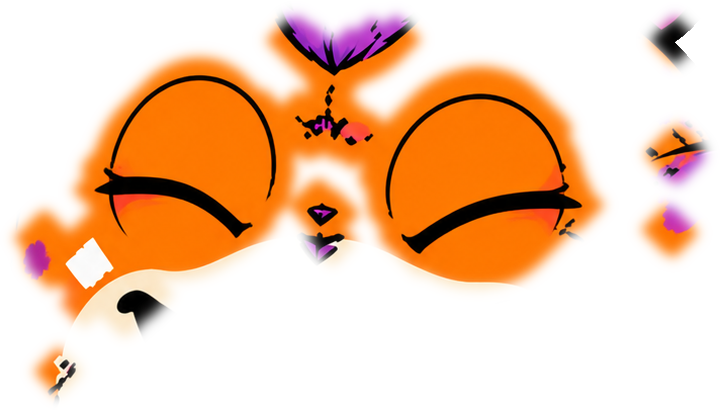
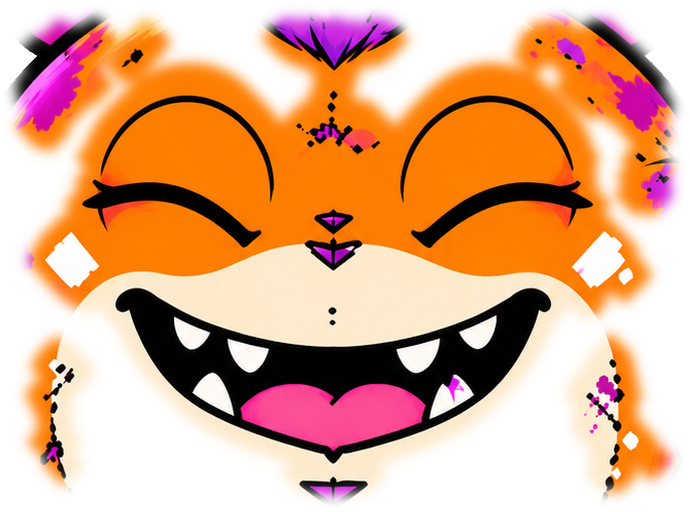
BUNK: new closed-eyes face (aligned to the new arms-down pose); faces only on the arms-down pose
Claude-Session: https://claude.ai/code/session_01MXithgTc5umkveoyZShZHQ

diff --git a/src/render/bunkView.ts b/src/render/bunkView.ts
@@ -256,7 +256,15 @@ export class BunkView extends Phaser.GameObjects.Container {
     if (still) face = brain.face();
     // 作り直し中で使わない物(表情の顔・腕を下ろした姿)
     if (m.disabled?.includes('faces')) face = null;
-    const pose: BunkPoseName = m.disabled?.includes('down') && brain.pose === 'down' ? 'guard' : brain.pose;
+    // 絵がまだない表情は出さない
+    if (face && !m.faces.names.includes(face)) face = null;
+    let pose: BunkPoseName = m.disabled?.includes('down') && brain.pose === 'down' ? 'guard' : brain.pose;
+    // 新しい絵の表情の顔は、腕を下ろした姿(正面)に合わせて作っている(2026-10-21〜)。
+    // 構えた姿(少し斜め)のときは、まばたきはしない。反応の顔(怒る・喜ぶなど)は、腕を下ろした姿にして出す
+    if (face && m.facesOnlyDown && pose === 'guard') {
+      if (face === brain.face()) pose = 'down';
+      else face = null;
+    }
 
     const br = still ? { scaleX: 1, scaleY: 1 } : sleeping ? breathPose(m, t, b.sleepBreathScale, b.sleepBreathPeriod) : breathPose(m, t);
     const hopPhase = (t * Math.PI) / b.hopPeriod;

diff --git a/src/core/bunkPose.ts b/src/core/bunkPose.ts
@@ -58,6 +58,8 @@ export interface BunkMotion {
    * 'down': 腕を下ろした姿(かわりに構えた姿を出す) / 'faces': 表情の顔(まばたき・怒る・喜ぶの顔を出さない)
    */
   disabled?: ('down' | 'faces')[];
+  /** 表情の顔は腕を下ろした姿にだけ重ねる(新しい絵は、腕を下ろした姿に合わせて作っているため) */
+  facesOnlyDown?: boolean;
 }
 
 export interface BreathPose {

diff --git a/tools/build_bunk_faces_v2.py b/tools/build_bunk_faces_v2.py
@@ -1,0 +1,95 @@
+"""BUNK の表情の顔を作る(新しい絵 2026-10-21〜)。絵は描き直さない(背景を消して、位置と大きさを合わせるだけ)。
+
+使い方:
+  python3 tools/build_bunk_faces_v2.py design/bunk/reference/pose_down/faces_v2.json
+
+表情の絵は「腕を下ろしたふつう」と同じポーズで作ってもらうが、少しだけ大きさや位置がちがう。そこで:
+1. 背景(市松模様)だけを消す(tools/remove_background.py と同じ処理)
+2. 黒い線が いちばん重なるように、表情の絵を少しだけ拡大縮小・移動して、ふつうの絵に合わせる
+3. ふつうの絵とちがう所(目・口など)だけを、顔の範囲(box)の中から ふちをぼかして切り出す
+4. ゲームの画面(1278x1230)の位置に直して、public/assets/bunk/faces/<表情>.png と faces.json に書き出す
+"""
+import importlib.util
+import json
+import os
+import sys
+
+import cv2
+import numpy as np
+from PIL import Image
+from scipy import ndimage as ndi
+
+ROOT = os.path.dirname(os.path.dirname(os.path.abspath(__file__)))
+spec = importlib.util.spec_from_file_location("remove_background", os.path.join(ROOT, "tools", "remove_background.py"))
+rb = importlib.util.module_from_spec(spec)
+spec.loader.exec_module(rb)
+
+
+def outline(a):
+    g = (a[..., :3].astype(np.float32) @ [0.299, 0.587, 0.114]) * (a[..., 3] / 255)
+    return cv2.GaussianBlur((g < 80).astype(np.float32), (0, 0), 3)
+
+
+def warp(a, s, dx, dy, cx, cy, size):
+    m = np.float32([[s, 0, dx + (1 - s) * cx], [0, s, dy + (1 - s) * cy]])
+    return cv2.warpAffine(a, m, size, flags=cv2.INTER_LANCZOS4 if a.ndim == 3 else cv2.INTER_LINEAR)
+
+
+def align(base, img):
+    """img を base に合わせる拡大率と移動(線の重なりがいちばん多くなる所)"""
+    h, w = base.shape[:2]
+    cx, cy = w / 2, h / 2
+    A, B = outline(base), outline(img)
+
+    def err(s, dx, dy):
+        return float(((warp(B, s, dx, dy, cx, cy, (w, h)) - A) ** 2)[::2, ::2].sum())
+
+    best = min((err(s, dx, dy), s, dx, dy) for s in np.arange(0.94, 1.081, 0.01) for dx in range(-30, 31, 3) for dy in range(-30, 31, 3))
+    _, s, dx, dy = best
+    best = min((err(s2, dx2, dy2), s2, dx2, dy2) for s2 in np.arange(s - 0.01, s + 0.011, 0.0025) for dx2 in range(dx - 3, dx + 4) for dy2 in range(dy - 3, dy + 4))
+    _, s, dx, dy = best
+    return warp(img, s, dx, dy, cx, cy, (w, h)), (round(float(s), 4), int(dx), int(dy))
+
+
+def main(config_path):
+    cfg = json.load(open(config_path))
+    src_dir = os.path.dirname(config_path)
+    face_dir = os.path.join(ROOT, "public/assets/bunk/faces")
+    cut_dir = os.path.join(src_dir, "cut_v2")
+    os.makedirs(face_dir, exist_ok=True)
+    os.makedirs(cut_dir, exist_ok=True)
+    cw, ch = cfg["canvas"]
+    ox, oy = cfg["place"]
+
+    def cut(name, file):
+        out = os.path.join(cut_dir, f"{name}.png")
+        print(name, end=": ")
+        rb.main(os.path.join(src_dir, file), out, ["--checker"])
+        return np.array(Image.open(out).convert("RGBA"))
+
+    base = cut("neutral", cfg["neutral"])
+    f = cfg["face"]
+    x0, y0, x1, y1 = f["box"]
+    manifest_path = os.path.join(face_dir, "faces.json")
+    manifest = json.load(open(manifest_path))["faces"] if cfg.get("keepOthers") and os.path.exists(manifest_path) else {}
+    for name, file in cfg["faces"].items():
+        img, how = align(base, cut(name, file))
+        diff = np.abs(img[..., :3].astype(int) - base[..., :3].astype(int)).max(2) > f["diff"]
+        m = np.zeros_like(diff)
+        m[y0:y1, x0:x1] = diff[y0:y1, x0:x1]
+        m = ndi.binary_opening(m, iterations=2)
+        m = ndi.binary_fill_holes(ndi.binary_dilation(m, iterations=f["grow"]))
+        soft = cv2.GaussianBlur(m.astype(np.float32), (0, 0), f["feather"])
+        alpha = (soft * (img[..., 3] / 255.0) * 255).round().astype(np.uint8)
+        layer = np.dstack([img[..., :3], alpha])
+        ys, xs = np.nonzero(alpha)
+        bx0, by0 = xs.min() // 2 * 2, ys.min() // 2 * 2
+        bx1, by1 = -(-(xs.max() + 1) // 2) * 2, -(-(ys.max() + 1) // 2) * 2
+        Image.fromarray(layer[by0:by1, bx0:bx1]).save(os.path.join(face_dir, f"{name}.png"), optimize=True)
+        manifest[name] = {"x": int(bx0 + ox), "y": int(by0 + oy), "w": int(bx1 - bx0), "h": int(by1 - by0)}
+        print(name, "合わせ方(拡大率, 横, 縦):", how, manifest[name])
+    json.dump({"width": cw, "height": ch, "faces": manifest}, open(manifest_path, "w"), indent=2, ensure_ascii=False)
+
+
+if __name__ == "__main__":
+    main(sys.argv[1])

diff --git a/design/bunk/README.md b/design/bunk/README.md
@@ -6,7 +6,9 @@
 - 背景を消して、前の絵と同じ大きさの画面（1278×1230）に、足元が前と同じ所にくるよう (12,3) ずらして置いた物を `public/assets/bunk/reference/bunk_hires_cutout.png` にした（ゲームの大きさ・位置・動きの数字をそのまま使うため）。
 - パーツ分けは `reference/split.json`（前の絵の設定は `split_v1.json`）。前の絵にあった右の角はなく、丸い耳は体の一部。とさかは線で囲まれているので、色のかたまりで切り出した。
 - 腕を下ろした姿（ふつう）も新しい絵 `reference/bunk_down_v2.png` にした（2026-10-21）。正面を向いているので、顔ではなく足元で位置をそろえた（(14,16) ずらす）。パーツ分けは `reference/pose_down/split.json`（目のパーツも入れて、反転したときの目の位置に使う）。
-- 表情の顔は、新しい絵がとどくまで使わない（`src/render/bunkMotion.json` の `disabled`）。お世話画面の6つの姿は、とどくまで前の絵のまま。
+- 表情の顔（新しい絵）は `tools/build_bunk_faces_v2.py design/bunk/reference/pose_down/faces_v2.json` で作る。表情の絵は ふつうの絵と少しだけ大きさ・位置がちがうので、線が重なるように合わせてから、ちがう所（顔）だけ切り出す。
+  - 2026-10-21：目を閉じた顔（`pose_down/v2_closed.png`）。届いた表情から `faces_v2.json` の faces と `bunkMotion.json` の faces.names に足す。
+  - 新しい表情の顔は腕を下ろした姿（正面）に合わせているので、構えた姿ではまばたきしない。反応の顔を出すときは腕を下ろした姿になる（`facesOnlyDown`）。お世話画面の6つの姿は、とどくまで前の絵のまま。
 
 以下は前の絵のときの記録。
 
